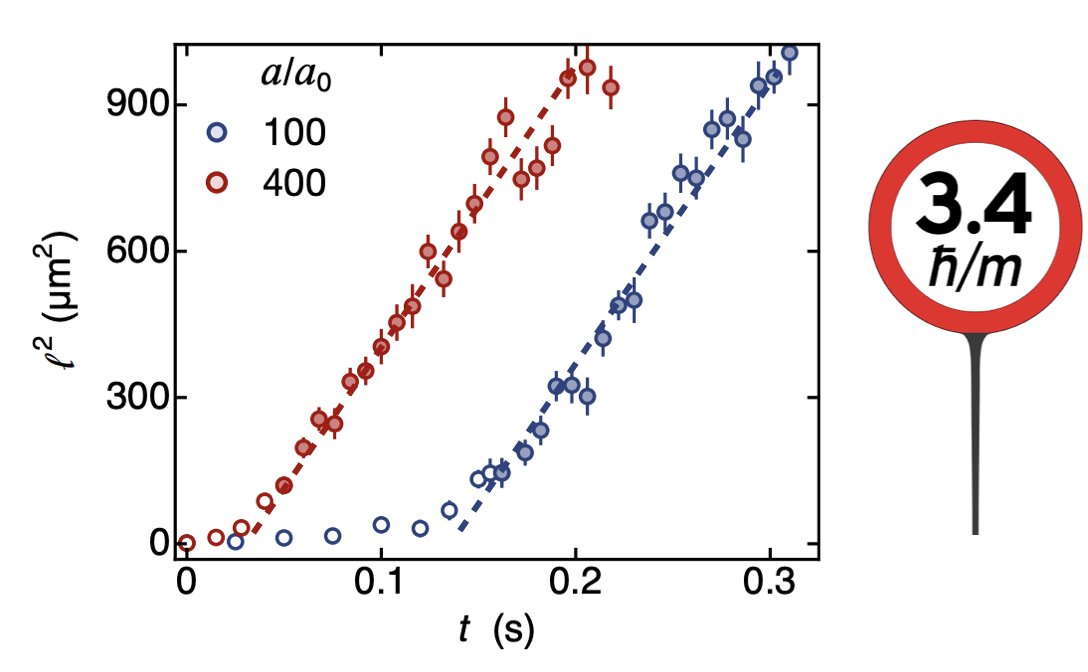
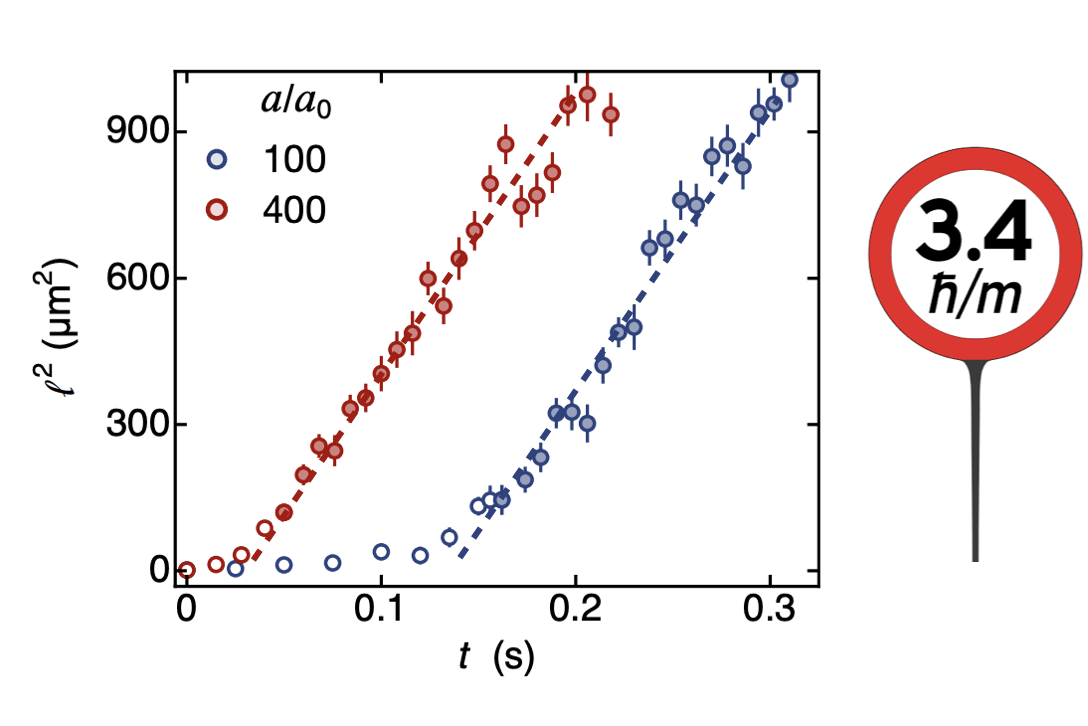
Make highlight carousel auto-advance, fix plot image crop
- Add HighlightCarousel client component: auto-advances every 5s,
  pauses on hover/focus, respects prefers-reduced-motion, with
  clickable dot indicators
- Replace scroll-snap carousel CSS with a JS-driven sliding track
- Pad nature-speed-limit-plot.png vertically so its aspect ratio
  matches the 3:2 crop and its content stops getting cut off

Claude-Session: https://claude.ai/code/session_01AUsFgEng7tqWB9fLbZyvUk

diff --git a/app/HighlightCarousel.tsx b/app/HighlightCarousel.tsx
@@ -1,0 +1,74 @@
+'use client';
+
+import { useEffect, useRef, useState } from 'react';
+
+const AUTO_ADVANCE_MS = 5000;
+
+export function HighlightCarousel({
+  images,
+}: {
+  images: { src: string; alt: string }[];
+}) {
+  const [index, setIndex] = useState(0);
+  const [paused, setPaused] = useState(false);
+  const timerRef = useRef<ReturnType<typeof setInterval> | null>(null);
+
+  useEffect(() => {
+    if (images.length < 2 || paused) return;
+    if (window.matchMedia('(prefers-reduced-motion: reduce)').matches) return;
+
+    timerRef.current = setInterval(() => {
+      setIndex((current) => (current + 1) % images.length);
+    }, AUTO_ADVANCE_MS);
+
+    return () => {
+      if (timerRef.current) clearInterval(timerRef.current);
+    };
+  }, [images.length, paused]);
+
+  if (images.length < 2) {
+    const [image] = images;
+    return (
+      <div className="highlight-images">
+        <div className="highlight-image">
+          {/* eslint-disable-next-line @next/next/no-img-element */}
+          <img src={image.src} alt={image.alt} width={1000} height={660} />
+        </div>
+      </div>
+    );
+  }
+
+  return (
+    <div
+      className="highlight-images highlight-carousel"
+      onMouseEnter={() => setPaused(true)}
+      onMouseLeave={() => setPaused(false)}
+      onFocus={() => setPaused(true)}
+      onBlur={() => setPaused(false)}
+    >
+      <div
+        className="highlight-track"
+        style={{ transform: `translateX(-${index * 100}%)` }}
+      >
+        {images.map((image) => (
+          <div className="highlight-image" key={image.src}>
+            {/* eslint-disable-next-line @next/next/no-img-element */}
+            <img src={image.src} alt={image.alt} width={1000} height={660} />
+          </div>
+        ))}
+      </div>
+      <div className="highlight-dots" role="group" aria-label="Highlight images">
+        {images.map((image, i) => (
+          <button
+            key={image.src}
+            type="button"
+            className="highlight-dot"
+            aria-current={i === index}
+            aria-label={`Show image ${i + 1} of ${images.length}`}
+            onClick={() => setIndex(i)}
+          />
+        ))}
+      </div>
+    </div>
+  );
+}

diff --git a/app/page.tsx b/app/page.tsx
@@ -1,3 +1,5 @@
+import { HighlightCarousel } from './HighlightCarousel';
+
 const publications = [
   {
     year: '2026',
@@ -325,19 +327,7 @@ export default function Home() {
           <div className="research-highlights">
             {highlights.map((highlight) => (
               <article className="research-highlight" key={highlight.paper}>
-                <div
-                  className={
-                    highlight.images.length > 1 ? 'highlight-images highlight-carousel' : 'highlight-images'
-                  }
-                >
-                  {highlight.images.map((image) => (
-                    <div className="highlight-image" key={image.src}>
-                      {/* The source images are already sized for this layout. */}
-                      {/* eslint-disable-next-line @next/next/no-img-element */}
-                      <img src={image.src} alt={image.alt} width={1000} height={660} />
-                    </div>
-                  ))}
-                </div>
+                <HighlightCarousel images={highlight.images} />
                 <div className="highlight-copy">
                   <p className="highlight-meta">
                     {highlight.journal}, {highlight.year} <span>{highlight.note}</span>

diff --git a/app/globals.css b/app/globals.css
@@ -208,15 +208,47 @@ h2 {
 }
 
 .highlight-carousel {
+  position: relative;
+  overflow: hidden;
+}
+
+.highlight-carousel .highlight-track {
   display: flex;
-  overflow-x: auto;
-  scroll-snap-type: x mandatory;
-  scrollbar-width: thin;
+  transition: transform 420ms ease;
 }
 
 .highlight-carousel .highlight-image {
   flex: 0 0 100%;
-  scroll-snap-align: start;
+}
+
+.highlight-dots {
+  display: flex;
+  justify-content: center;
+  gap: 8px;
+  margin-top: 12px;
+}
+
+.highlight-dot {
+  width: 6px;
+  height: 6px;
+  padding: 0;
+  border: none;
+  border-radius: 50%;
+  background: var(--rule);
+  cursor: pointer;
+}
+
+.highlight-dot:hover {
+  background: var(--muted);
+}
+
+.highlight-dot[aria-current='true'] {
+  background: var(--accent);
+}
+
+.highlight-dot:focus-visible {
+  outline: 2px solid var(--accent);
+  outline-offset: 2px;
 }
 
 .highlight-image {
@@ -526,6 +558,10 @@ footer {
   }
 
   .highlight-image img {
+    transition: none;
+  }
+
+  .highlight-track {
     transition: none;
   }
 
